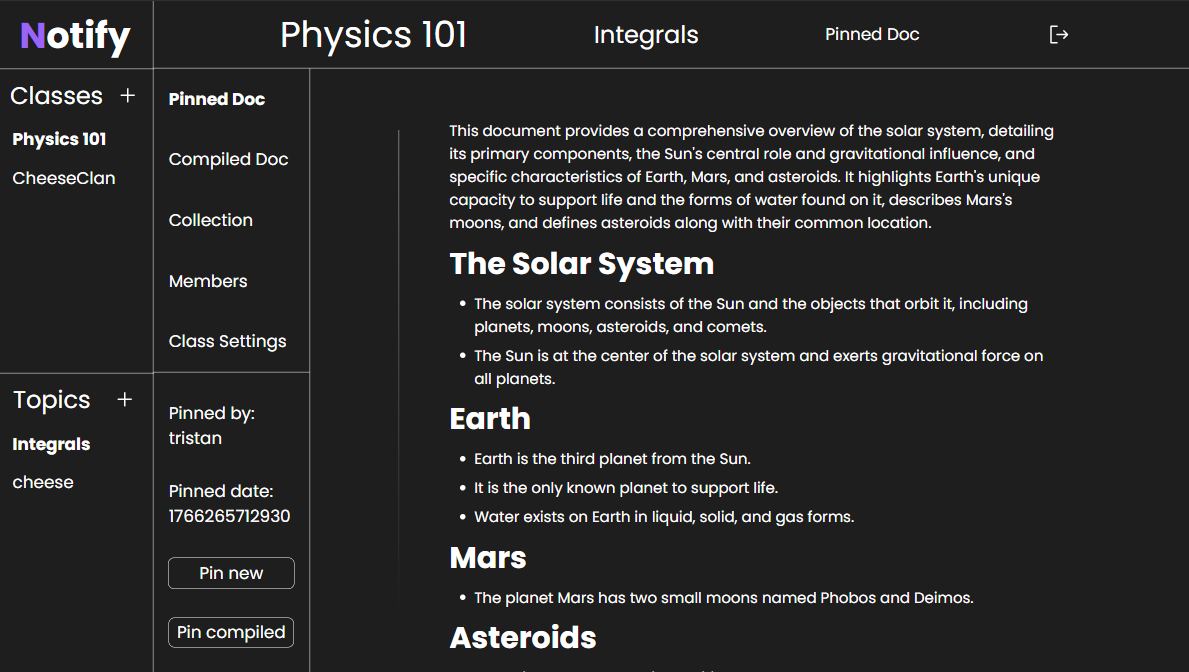
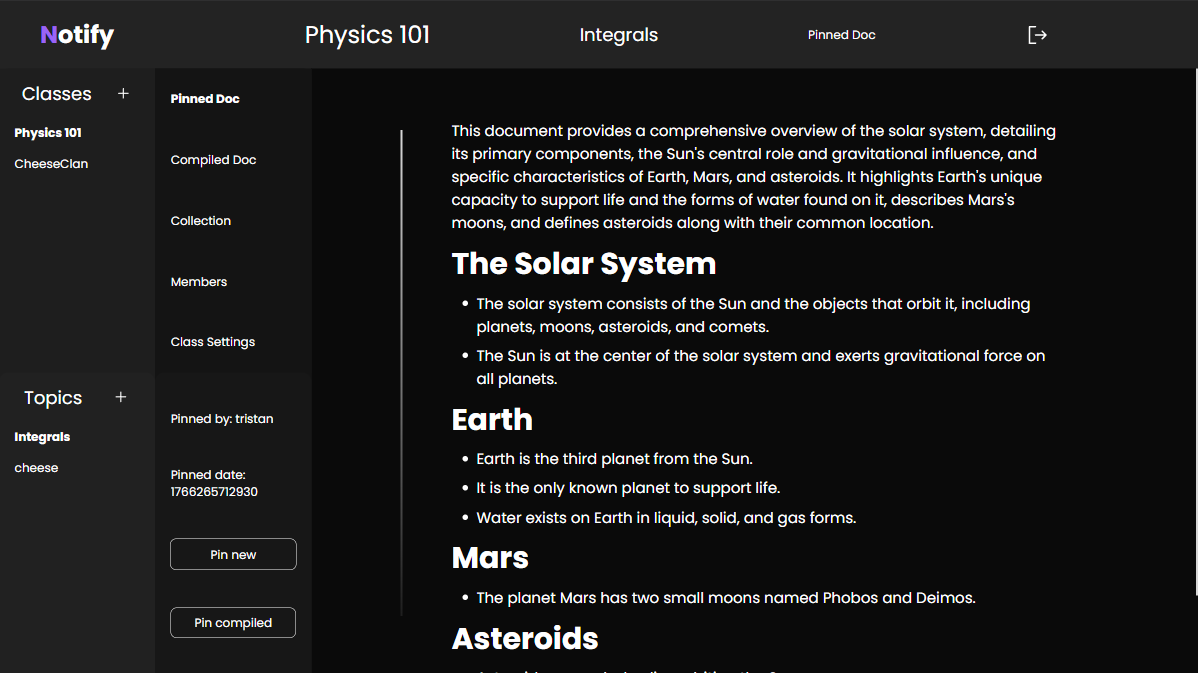
Changed images of notify

diff --git a/src/components/ImageSlider.jsx b/src/components/ImageSlider.jsx
@@ -1,14 +1,13 @@
 import { useState } from "react";
 
 function ImageSlider({ id, images = [] }) {
-  const [current, setCurrent] = useState(
-    images.length > 0 ? `${id}-slide-0` : null
-  );
-  const scrollIntoView = (e, slideId) => {
+  const [current, setCurrent] = useState(images.length > 0 ? 0 : null);
+
+  const scrollIntoView = (e, newValue) => {
     if (e) e.preventDefault();
-    const element = document.getElementById(slideId);
+    const element = document.getElementById(`${id}-slide-${newValue}`);
     if (element) {
-      setCurrent(slideId);
+      setCurrent(newValue);
       element.scrollIntoView({
         behavior: "smooth",
         block: "nearest",
@@ -17,20 +16,40 @@ function ImageSlider({ id, images = [] }) {
     }
   };
 
+  function handleScroll(e) {
+    const container = e.target;
+    if (container.scrollLeft == 0) {
+      setCurrent(0);
+    } else {
+      setCurrent(
+        Math.round(
+          container.scrollLeft / container.scrollWidth / (1 / images.length)
+        )
+      );
+    }
+  }
+
   return (
     <div id={id} className="ImageSlider">
-      <div>
+      <div onScroll={handleScroll}>
         {images.map((src, i) => (
-          <img key={i} id={`${id}-slide-${i}`} src={src} />
+          <img
+            key={i}
+            id={`${id}-slide-${i}`}
+            src={src}
+            onClick={(e) =>
+              scrollIntoView(e, current + 1 >= images.length ? 0 : current + 1)
+            }
+          />
         ))}
       </div>
 
       <div>
         {images.map((_, i) => (
           <a
-            className={current == `${id}-slide-${i}` ? "active" : ""}
+            className={current == i ? "active" : ""}
             key={i}
-            onClick={(e) => scrollIntoView(e, `${id}-slide-${i}`)}
+            onClick={(e) => scrollIntoView(e, i)}
           />
         ))}
       </div>

diff --git a/index.html b/index.html
@@ -1,6 +1,20 @@
 <!DOCTYPE html>
 <html lang="en">
   <head>
+    <!-- Google tag (gtag.js) -->
+    <script
+      async
+      src="https://www.googletagmanager.com/gtag/js?id=G-WC9F3JTXE6"
+    ></script>
+    <script>
+      window.dataLayer = window.dataLayer || [];
+      function gtag() {
+        dataLayer.push(arguments);
+      }
+      gtag("js", new Date());
+
+      gtag("config", "G-WC9F3JTXE6");
+    </script>
     <meta charset="UTF-8" />
     <meta name="viewport" content="width=device-width, initial-scale=1.0" />
     <link rel="preconnect" href="https://fonts.googleapis.com" />

diff --git a/src/index.css b/src/index.css
@@ -475,17 +475,23 @@ body {
   position: relative;
   box-shadow: var(--shadow-m);
   border-radius: 10px;
+  cursor: pointer;
 }
 
 .ImageSlider > :first-child {
-  overflow: hidden;
+  overflow-x: auto;
   border-radius: 10px;
   aspect-ratio: 16/9;
   width: 100%;
   display: flex;
   scroll-snap-type: x mandatory;
   scroll-behavior: smooth;
+  touch-action: pan-x;
   gap: 1px;
+}
+
+.ImageSlider > :first-child::-webkit-scrollbar {
+  display: none;
 }
 
 .ImageSlider :first-child img {
